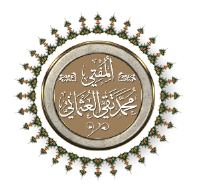
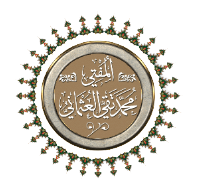
fix images aspect ratio and add loader on fallback suspense while loading channels :rocket:

diff --git a/src/container/channel-container.tsx b/src/container/channel-container.tsx
@@ -1,5 +1,7 @@
 import React, { Suspense } from "react";
 import styled from "styled-components";
+import CircularProgress from '@mui/material/CircularProgress';
+import Box from '@mui/material/Box';
 import Theme from "../constants/theme";
 import { mobile } from "../utils/responsive";
 import { channelData } from "../services/data";
@@ -28,10 +30,18 @@ const ChannelContainer = () => {
     navigate(`/channels/${route}`);
   };
 
+  const CircularLoader  = () => {
+    return(
+  <Box sx={{ display: 'flex', justifyContent: 'center', height: '500px' }}>
+    <CircularProgress size={80} sx={{marginTop: "100px"}} />
+  </Box>
+    )
+  }
+
   return (
     <>
       <Heading>Streaming Channels For You</Heading>
-      <Suspense fallback="loading channels">
+      <Suspense fallback={<CircularLoader/>}>
       <Container>
         {channelData.map((item) => (
           <Channel channel={item} handleNavigation={() => navigateChannel(item.channelRoute)} />

diff --git a/src/components/Channels/index.tsx b/src/components/Channels/index.tsx
@@ -28,8 +28,8 @@ const Channel = ({ channel, handleNavigation}: Props) => {
 
   const Container = styled.div`
     flex: 1;
-    margin: 15px;
-    min-width: 520px;
+    margin: 25px;
+    min-width: 550px;
     height: 30vh;
     position: relative;
     cursor: pointer;
@@ -49,7 +49,7 @@ const Channel = ({ channel, handleNavigation}: Props) => {
   const Image = styled.img`
     width: 100%;
     height: 100%;
-    object-fit: fill;
+    object-fit: contain;
     cursor: pointer;
     opacity: 0.7;
     ${mobile({ height: "20vh" })};

diff --git a/src/services/data.ts b/src/services/data.ts
@@ -1,11 +1,11 @@
 import mft from '../assets/MuftiTM.jpg';
-import muftiMenk from '../assets/muftimenk.jpg';
+import muftiMenk from '../assets/muftimenk.png';
 import MTJ from '../assets/MTJ.png';
 import ZN from '../assets/ZN.png';
 import DRIS from '../assets/DR.png';
 import khanqah from '../assets/khanqah.png';
-import MIBD from '../assets/MIBD.jpg';
-import JJ from '../assets/J.jpg';
+import MIBD from '../assets/MIBD.png';
+import JJ from '../assets/J.png';
 import MTU from '../assets/mtu.png';
 
 export const channelData = [
